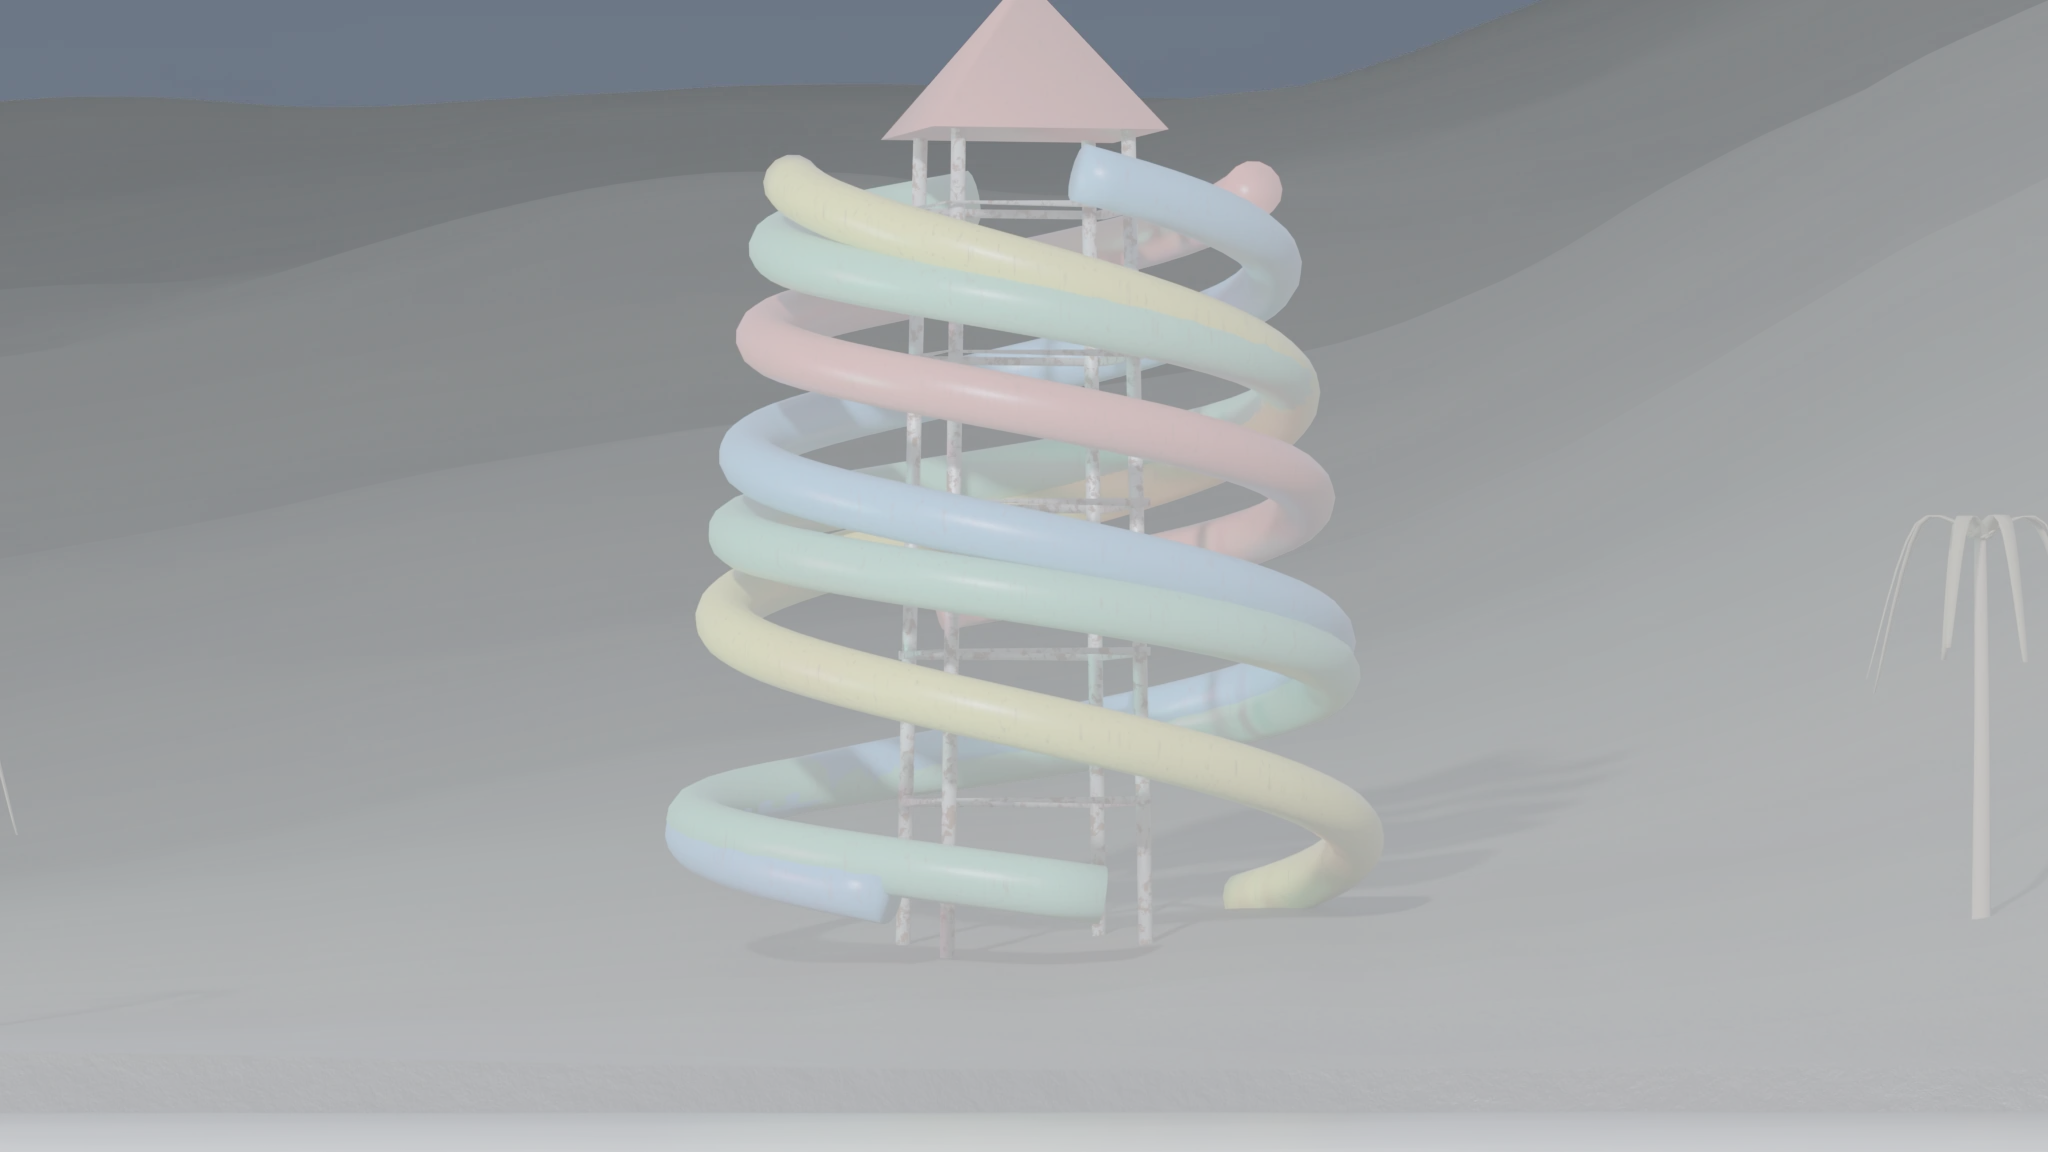
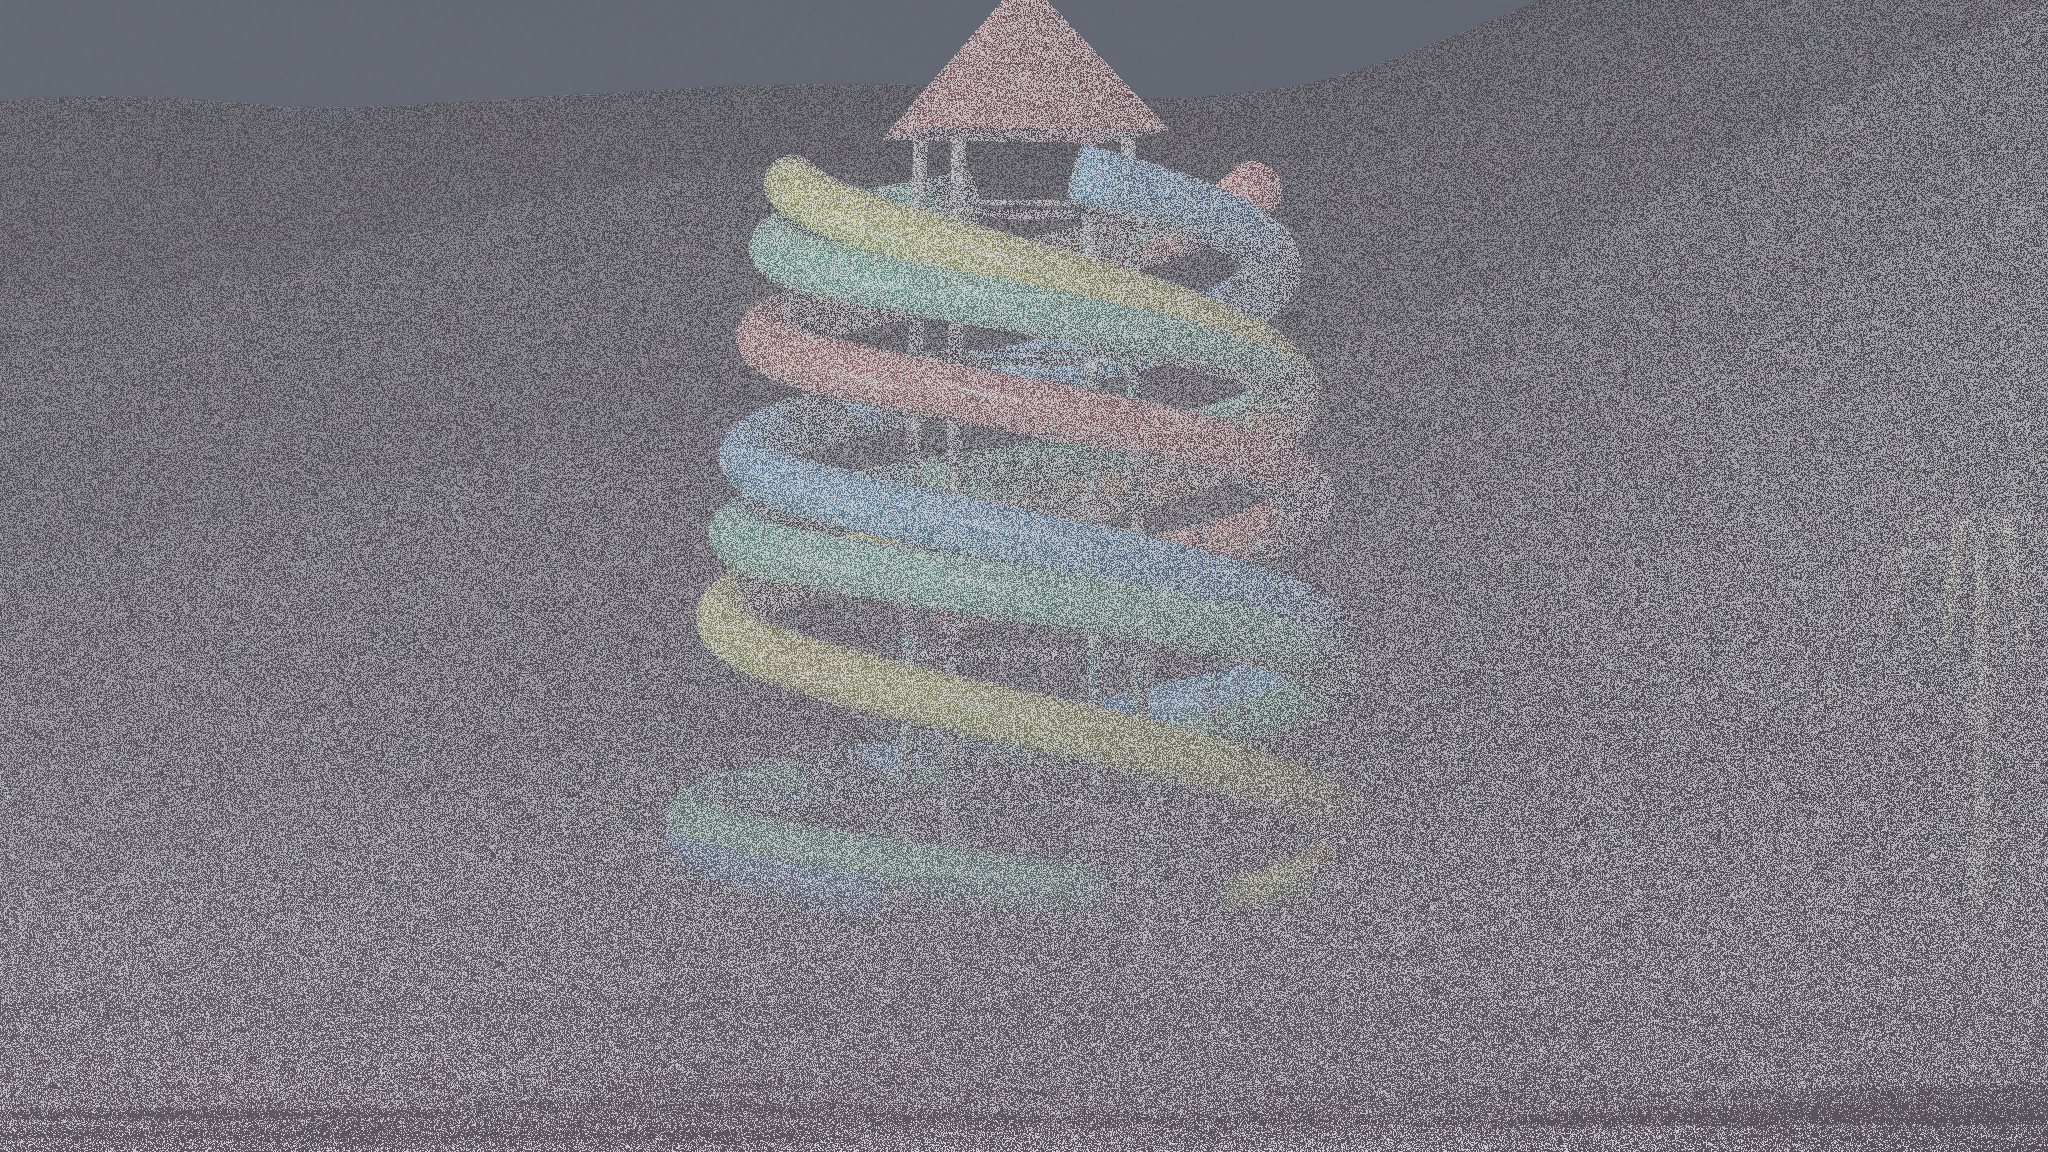
L'animatore nel binocolo: viste definitive con l'atmosfera (ATMOSFERA=1) per la torre degli scivoli e il relitto: bino_<posto>.webp (vuoto), _foxy0 (fermo), _foxy1 (più vicino), stessa inquadratura e scala (0,25, come prima), senza perdita perché fuori dalla sagoma combacino pixel per pixel; il most
Claude-Session: https://claude.ai/code/session_019HFfvYRRadjqBhFodrQPYe

diff --git a/tools/render/foxy_binocolo_tavola.py b/tools/render/foxy_binocolo_tavola.py
@@ -2,7 +2,8 @@
 L'ANIMATORE nel binocolo — la tavola dell'anteprima: per ogni luogo proposto i tre stadi (lontano, vicino, vuoto)
 come si vedono nel gioco col binocolo alzato a zoom massimo (foto di foxy_binocolo_cattura.mjs).
 
-Uso: tools/.venv/bin/python tools/render/foxy_binocolo_tavola.py
+Uso: tools/.venv/bin/python tools/render/foxy_binocolo_tavola.py [--def]
+(--def: le viste definitive, col modello vero e l'atmosfera → docs/concept/animatore_binocolo.jpg)
 """
 from __future__ import annotations
 
@@ -16,10 +17,12 @@ from PIL import Image, ImageDraw, ImageFont  # noqa: E402
 from common import CACHE, ROOT  # noqa: E402
 
 DIR = os.path.join(CACHE, 'foxy', 'bino')
-OUT = os.path.join(ROOT, 'docs', 'concept', 'foxy_binocolo.jpg')
+DEF = '--def' in sys.argv
+OUT = os.path.join(ROOT, 'docs', 'concept', 'animatore_binocolo.jpg' if DEF else 'foxy_binocolo.jpg')
 
 LUOGHI = [
-    ('scivoli', 'Torre degli scivoli (460 m)', 'in cima alla torre, sotto il tetto rosso', 'sceso sulla battigia, ai piedi degli scivoli'),
+    ('scivoli', 'Torre degli scivoli (460 m)', 'in cima alla torre, sotto il tetto rosso',
+     'sceso ai piedi della torre, davanti agli scivoli' if DEF else 'sceso sulla battigia, ai piedi degli scivoli'),
     ('relitto', 'Il relitto (170 m)', 'in piedi sulla tuga del peschereccio affondato', 'in acqua fino alla vita, davanti al relitto'),
 ]
 STADI = [('lontano', '1 · lontano, fermo'), ('vicino', '2 · più vicino'), ('vuoto', '3 · il posto è vuoto')]
@@ -35,16 +38,21 @@ def main():
     gap, head, row_head, foot = 16, 96, 44, 64
     sheet = Image.new('RGB', (W * 3 + gap * 4, head + len(LUOGHI) * (row_head + H + foot) + gap), (12, 14, 19))
     d = ImageDraw.Draw(sheet)
-    d.text((gap, 18), "L'ANIMATORE nel binocolo — i posti proposti, tre stadi · da approvare", fill=(235, 228, 210), font=tf)
-    d.text((gap, 58), "foto del gioco vero (notte 2, binocolo alzato, zoom massimo); il mostro è una sagoma provvisoria (la variante A in bozza)",
-           fill=(170, 166, 156), font=sf)
+    if DEF:
+        d.text((gap, 18), "L'ANIMATORE nel binocolo — viste definitive (modello B, atmosfera), tre stadi", fill=(235, 228, 210), font=tf)
+        d.text((gap, 58), "foto del gioco vero (notte 2, binocolo alzato, zoom massimo, dondolio fermo); la nebbia del motore si somma ancora a quella resa",
+               fill=(170, 166, 156), font=sf)
+    else:
+        d.text((gap, 18), "L'ANIMATORE nel binocolo — i posti proposti, tre stadi · da approvare", fill=(235, 228, 210), font=tf)
+        d.text((gap, 58), "foto del gioco vero (notte 2, binocolo alzato, zoom massimo); il mostro è una sagoma provvisoria (la variante A in bozza)",
+               fill=(170, 166, 156), font=sf)
     y = head
     for key, title, far, near in LUOGHI:
         d.text((gap, y + 8), title, fill=(255, 179, 92), font=hf)
         y += row_head
         for i, (st, label) in enumerate(STADI):
             x = gap + i * (W + gap)
-            im = Image.open(os.path.join(DIR, f'gioco_{key}_{st}.png')).convert('RGB')
+            im = Image.open(os.path.join(DIR, f'gioco{"_def" if DEF else ""}_{key}_{st}.png')).convert('RGB')
             w0, h0 = im.size
             cw = int(h0 * 1.30)
             im = im.crop(((w0 - cw) // 2, 0, (w0 + cw) // 2, h0)).resize((W, H), Image.LANCZOS)

diff --git a/tools/render/foxy_binocolo.py b/tools/render/foxy_binocolo.py
@@ -167,6 +167,10 @@ def main():
 IDX_FOXY = 7
 STADI_DEF = (('foxy0', 'lontano'), ('foxy1', 'vicino'))
 RIM = {'foxy0': 260.0, 'foxy1': 650.0}     # il filo di luce da dietro (watt): più vicino all'acqua c'è più foschia
+# la luce di luna morbida da davanti e dall'alto, solo su di lui (watt, per luogo e stadio): la sagoma, il blu del costume
+# e la pancia chiara devono leggersi nella nebbia; da lontano sotto il tetto basta il filo di luce
+KEY = {('scivoli', 'foxy0'): 0.0, ('scivoli', 'foxy1'): 900.0, ('relitto', 'foxy0'): 500.0, ('relitto', 'foxy1'): 500.0}
+RIM_LUOGO = {'scivoli': 1.0, 'relitto': 2.0}
 
 
 def light_only(name, objs, loc, target, energy, color, size):
@@ -296,7 +300,11 @@ def definitivo():
             to_eye.normalize()
             side = Vector((-to_eye.y, to_eye.x, 0))
             rim = light_only(f'FoxyRim_{luogo}_{tag}', fig, pos - to_eye * 3.0 + side * 1.6 + Vector((0, 0, 3.4)), pos + Vector((0, 0, 1.2)),
-                             RIM[tag] * float(os.environ.get('FOXY_RIM', '1')), (0.70, 0.80, 1.0), 1.2)
+                             RIM[tag] * RIM_LUOGO[luogo] * float(os.environ.get('FOXY_RIM', '1')), (0.70, 0.80, 1.0), 1.2)
+            key = None
+            if KEY[(luogo, tag)] > 0:
+                key = light_only(f'FoxyKey_{luogo}_{tag}', fig, pos + to_eye * 4.0 - side * 1.5 + Vector((0, 0, 3.5)), pos + Vector((0, 0, 1.1)),
+                                 KEY[(luogo, tag)], (0.72, 0.80, 1.0), 2.5)
             x0, y0, x1, y1 = screen_rect(cam, fig, W, H)
             exr = os.path.join(out_dir, f'{luogo}_{tag}.exr')
             t = time.time()
@@ -314,6 +322,8 @@ def definitivo():
             mi[y0:y1, x0:x1] = mi[y0:y1, x0:x1] * (1 - m) + mist_r * m
             outs['_' + tag] = (lin, mi)
             rim.hide_render = True
+            if key:
+                key.hide_render = True
             print('ok', luogo, tag, round(time.time() - t), 's', (x0, y0, x1, y1), flush=True)
         for suf, (lin, mi) in outs.items():
             rgb8 = np.asarray(post.encode_light_pass(lin, scale))
